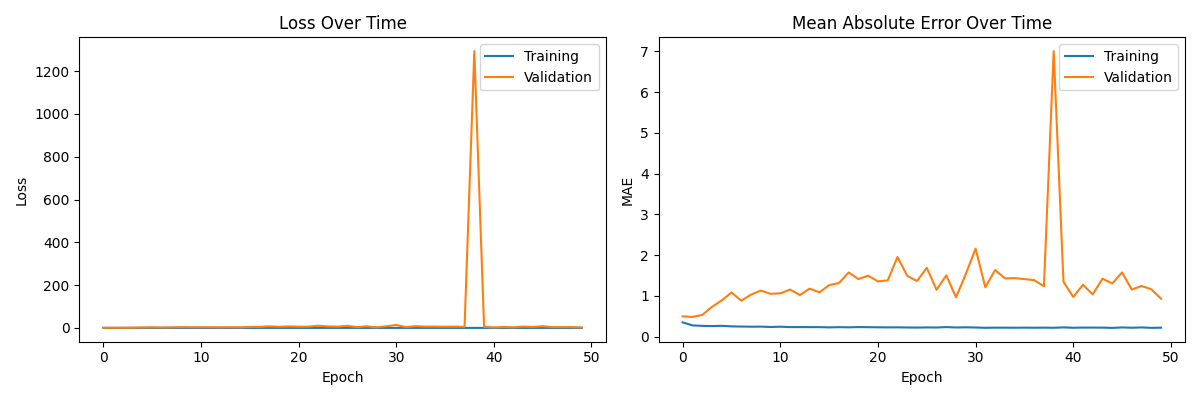
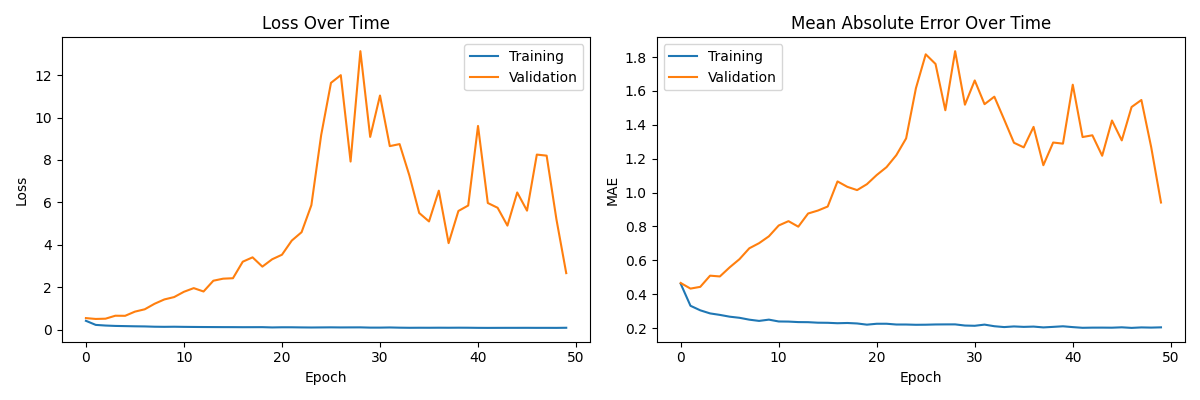
some overfitting stopped

diff --git a/NeuralNetwork/neural_simple.py b/NeuralNetwork/neural_simple.py
@@ -21,6 +21,24 @@ from data.data_prep import prepare_features
 from data.data_prep import merge_datasets
 from data.data_prep import handle_missing_values
 
+def create_callbacks():
+    early_stopping = EarlyStopping(
+        monitor='val_loss',
+        patience=50,
+        restore_best_weights=True,
+        verbose=1
+    )
+    
+    reduce_lr = ReduceLROnPlateau(
+        monitor='val_loss',
+        factor=0.5,
+        patience=50,
+        min_lr=0.00001,
+        verbose=1
+    )
+    
+    return [early_stopping, reduce_lr]
+
 def create_product_features(df):
     df_with_features = df.copy()
     
@@ -147,14 +165,18 @@ def prepare_and_predict_umsatz_nn(df):
         Dense(1)
     ])
     
-    model.compile(optimizer=Adam(learning_rate=0.01),
+    model.compile(optimizer=Adam(learning_rate=0.001),
                  loss='mse',
                  metrics=['mae'])
+    
+    # Using the new callbacks
+    callbacks = create_callbacks()
     
     history = model.fit(X_train_scaled, y_train_scaled,
                        epochs=50,
                        batch_size=32,
                        validation_split=0.2,
+                       callbacks=callbacks,
                        verbose=1)
     
     y_pred_scaled = model.predict(X_test_scaled)
